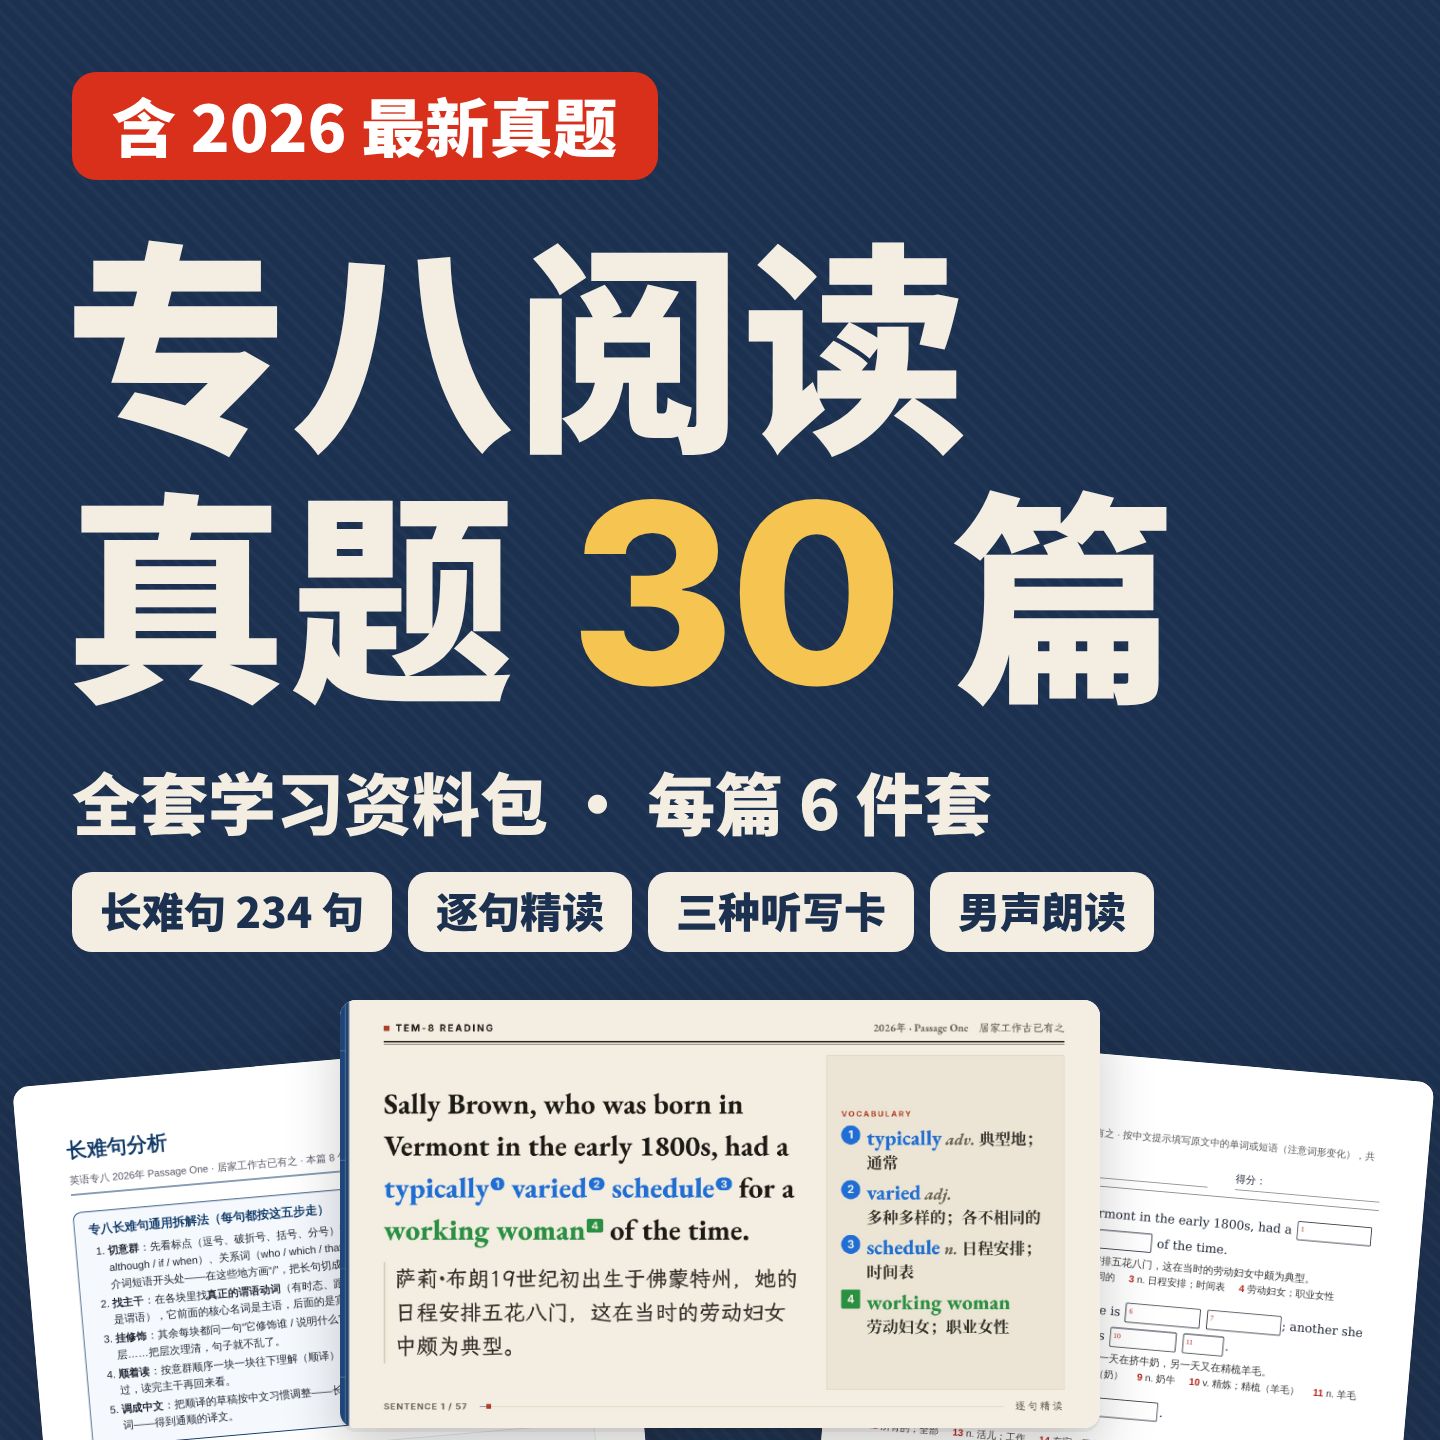
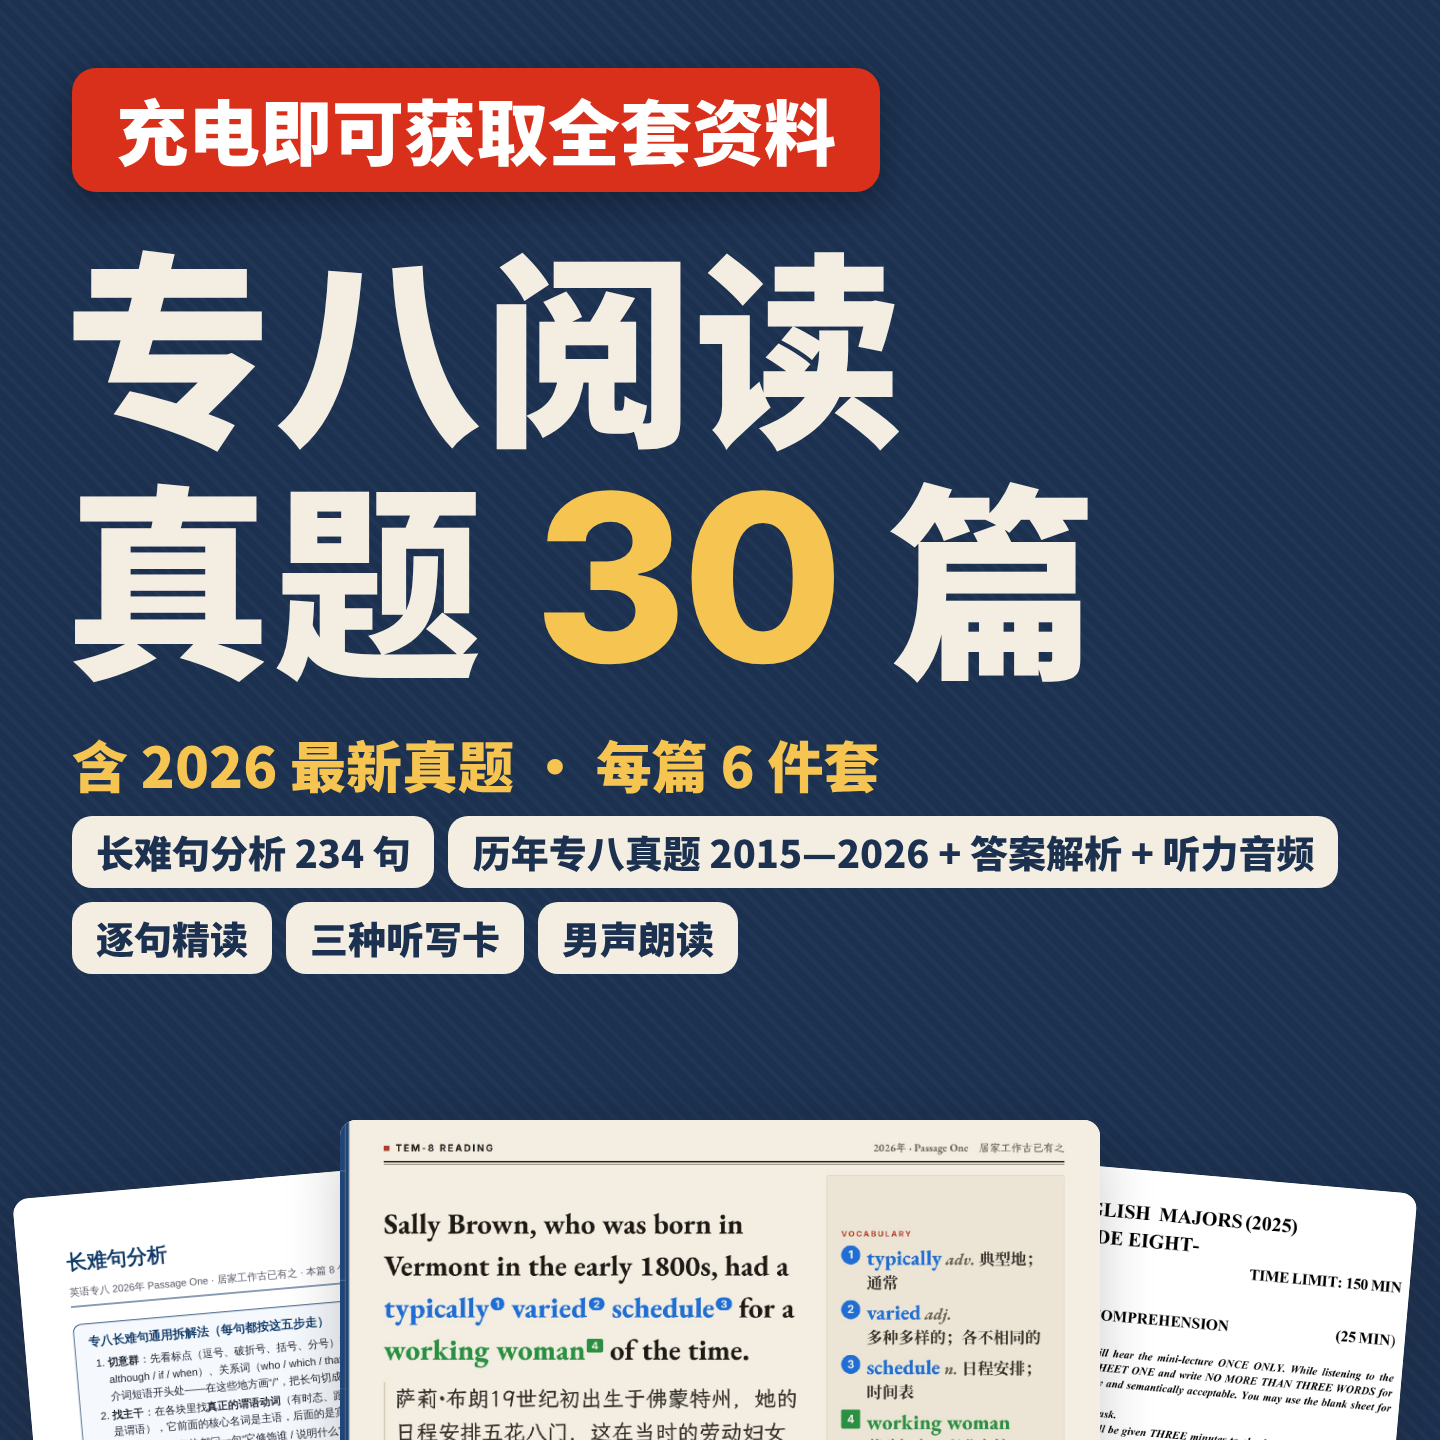
专八 B 站动态图按用户补充改版：充电即可获取、加历年真题、长难句在首位、图上不写领取流程；补检查 + 双向验证
Claude-Session: https://claude.ai/code/session_01BA1TPCtgYnJTqbqxuNYb6d

diff --git a/专八/资料包宣传图/素材.py b/专八/资料包宣传图/素材.py
@@ -20,13 +20,15 @@ def folder(n):
 
 
 def pdf(n, k):
+    if k == 'zt':        # 历年真题卷（专八/真题/<n>年 英语专业八级真题.pdf）
+        return REPO / '专八' / '真题' / f'{n}年 英语专业八级真题.pdf'
     return next(folder(n).glob(f'* - {k} *.pdf'))
 
 
 def page(n, k, p, dpi=None, width=None):
     """渲染第 p 页，返回 PIL 图。"""
     TMP.mkdir(parents=True, exist_ok=True)
-    out = TMP / f'{n:02d}_{k}_{p}'
+    out = TMP / f'{n}_{k}_{p}'
     opt = ['-r', str(dpi)] if dpi else ['-scale-to-x', str(width), '-scale-to-y', '-1']
     subprocess.run(['pdftoppm', '-q', *opt, '-f', str(p), '-l', str(p), '-singlefile', '-png', str(pdf(n, k)), str(out)], check=True)
     return Image.open(f'{out}.png').convert('RGB')
@@ -45,6 +47,7 @@ ITEMS = [
     ('jd_06_4', 6, 0, 4, None, None),
     ('jd_17_3', 17, 0, 3, None, None),
     ('jd_25_2', 25, 0, 2, None, None),
+    ('zt_2025', 2025, 'zt', 1, (0.06, 0.04, 0.94, 0.50), 200),
     ('cs_card', 1, 4, 1, (0.075, 0.445, 0.925, 0.945), 300),
     ('cs_steps', 1, 4, 2, (0.095, 0.618, 0.92, 0.935), 300),
     ('cs_full1', 1, 4, 1, None, 150),

diff --git a/专八/交接_B站动态图.md b/专八/交接_B站动态图.md
@@ -25,3 +25,10 @@
     /opt/ttsenv/bin/python 专八/资料包宣传图/宣传图.py --自检
 注意：本仓库新容器里 四级/封面/fonts 的 Noto 字体带 skip-worktree 标记不在磁盘上，先
 `git update-index --no-skip-worktree 四级/封面/fonts/NotoSansSC_*.ttf && git checkout -- 四级/封面/fonts`。
+
+## 用户补充（2026-10-27，经协调会话转达，以此为准）
+- 这套资料是 B 站充电福利：“充电即可获取全套资料”。第 1 张和最后一张醒目写出；第 2—8 张右上角统一的小“充电获取”标识。措辞用“充电即可获取 / 充电专属福利”，不单写“免费”，不写价格档位。
+- 图上不写任何领取流程：获取方式、领取方式、私信、网盘、链接都不许出现；领取方式只在动态正文里留“【这里写充电后的领取方式】”。
+- 充电福利还包含历年专八真题 2015—2026（10 年以上）+ 答案 + 解析 + 听力音频（在用户自己的网盘里，图上只用文字列出 + 仓库里真有的 2025 年真题卷首页局部；不写套数）。
+- 凡是列内容的地方一律按顺序：①长难句分析 ②历年专八真题 ③30 篇逐句精读 ④三种听写卡 ⑤朗读音频。
+- 程序检查（双向验证在 --自检）：首尾两张必须有“充电”；任何一张出现“免费”、获取方式 / 领取方式 / 私信 / 网盘 / 链接就报错；另补截图压住文字、框里内容被裁掉两项。

diff --git a/tools/防复发/方法进化记录.md b/tools/防复发/方法进化记录.md
@@ -156,3 +156,4 @@
 **看图**：共 9 张（内页联系表 1、素材 1、封面对比 1、3×3 预览 2、放大对照 3、长难句页 1），远低于 40 张；不派代理（9 张图一人看一张 3×3 预览就够）。
 **环境坑**：新容器没有 /opt/ttsenv：python3.13 装不了 spacy，用 python3.11 建；uv 在本代理下卡住，用 pip；`四级/封面/fonts` 的 Noto 字体带 skip-worktree 标记、磁盘上没有（字体 @font-face 静默失败），先 `git update-index --no-skip-worktree` 再 checkout。程序用 fontTools 查缺字，字体文件不在时直接报错，不会静默回退。
 **下一批怎么更省**：宣传图都按这套（素材.py 裁真实页面 + 宣传图.py 现算数字 + 自查 + 3×3 预览一次看完）；别的项目做动态图只换配色、数据源和裁图框。
+**补充（同日，用户经协调会话追加要求）**：改成“充电即可获取全套资料”（首尾必须有“充电”）、加历年真题一块、列内容长难句在首位、图上不写领取流程。改版时人眼在 3×3 预览里看出两处程序没管的毛病：封面卖点压住底部截图、总览真题卡片把最后一个标签裁掉 → 补成程序检查（文字块与截图重叠、overflow:hidden 裁掉内容），自检里故意放回都报出。共看图 13 张。
